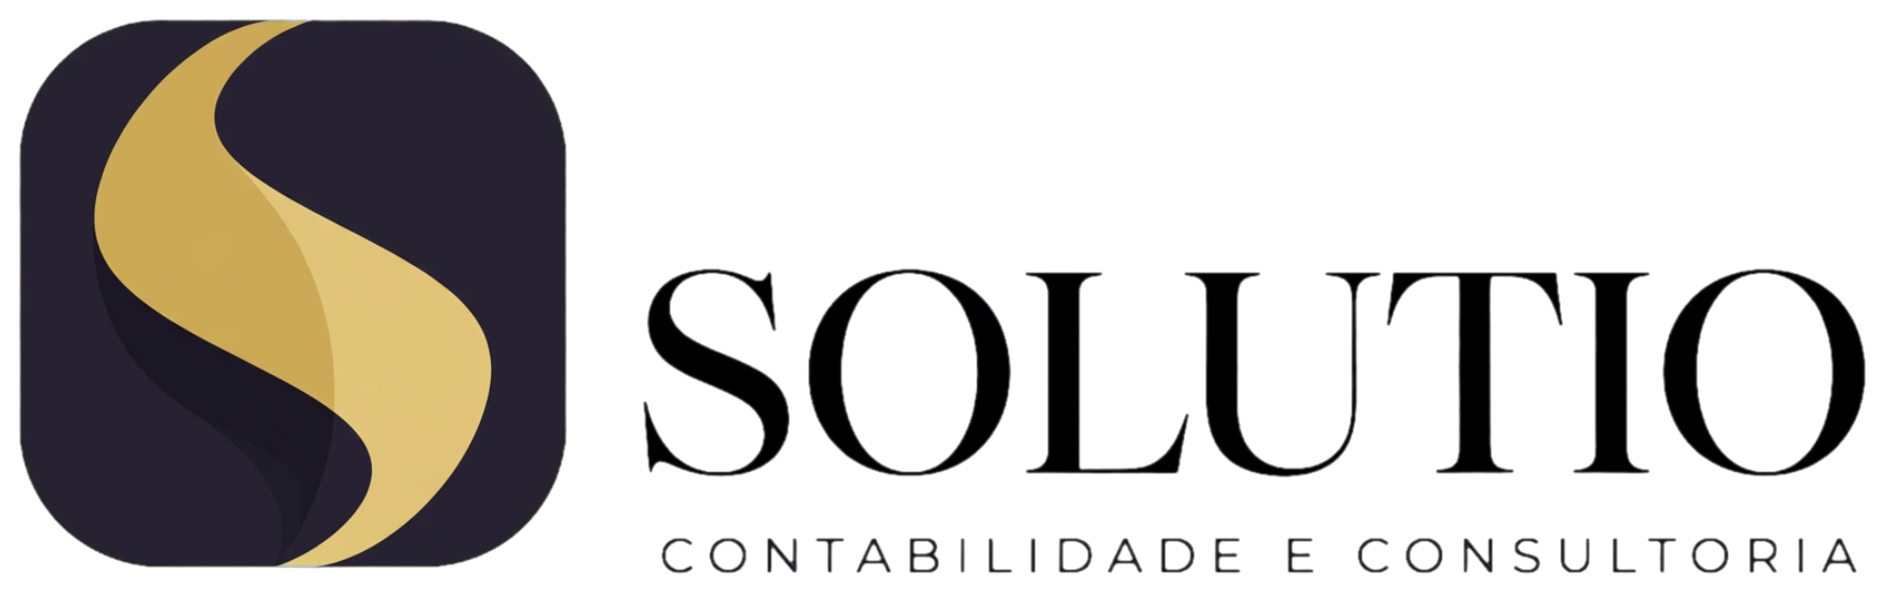
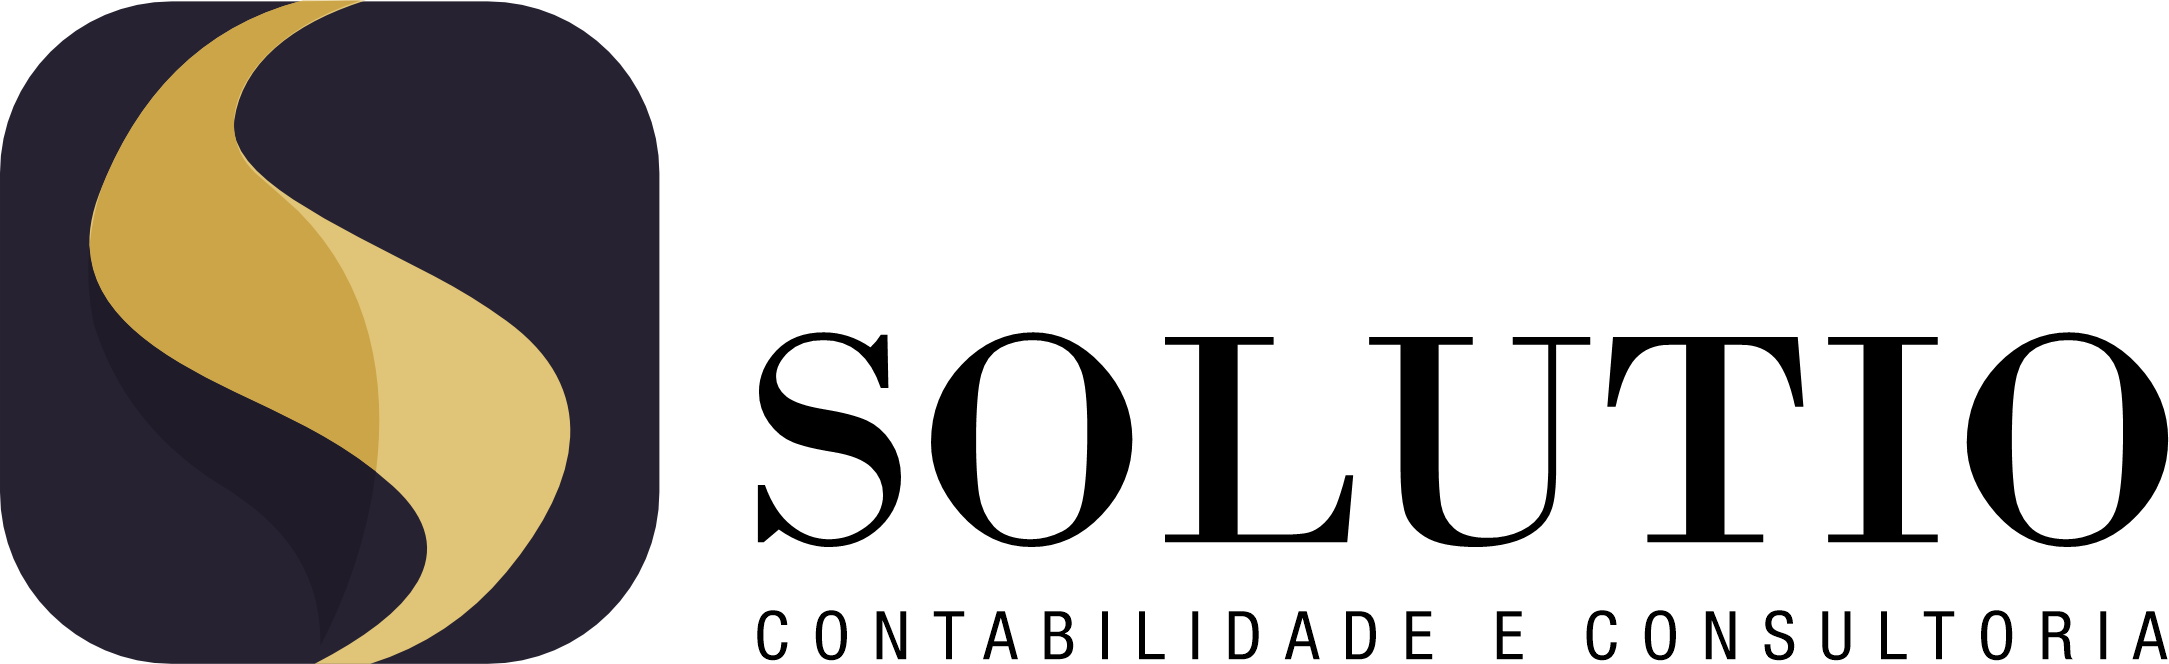
Add files via upload

diff --git a/index.html b/index.html
@@ -17,11 +17,7 @@
 <header class="site-header" id="siteHeader">
   <div class="header-inner">
     <a href="#inicio" class="brand">
-      <img src="solutio-icon-512.png" alt="Solutio" class="brand-mark">
-      <span class="brand-word">
-        <strong>SOLUTIO</strong>
-        <small>CONTABILIDADE E CONSULTORIA</small>
-      </span>
+      <img src="solutio-horizontal.png" alt="Solutio Contabilidade e Consultoria" class="brand-logo">
     </a>
 
     <nav class="main-nav" id="mainNav">
@@ -466,11 +462,7 @@
   <div class="container footer-grid">
     <div class="footer-brand">
       <a href="#inicio" class="brand">
-        <img src="solutio-icon-512.png" alt="Solutio" class="brand-mark">
-        <span class="brand-word">
-          <strong style="color:#fff;">SOLUTIO</strong>
-          <small style="color:rgba(255,255,255,.55);">CONTABILIDADE E CONSULTORIA</small>
-        </span>
+        <img src="solutio-horizontal-white.png" alt="Solutio Contabilidade e Consultoria" class="brand-logo">
       </a>
       <p data-cms="footer_tagline">Assessoria contábil em Brasília. Qualidade, prazo, sigilo e eficácia no atendimento aos nossos clientes.</p>
       <div class="social-row">

diff --git a/styles.css b/styles.css
@@ -117,6 +117,8 @@ section{ position: relative; }
 .brand-word{ display:flex; flex-direction:column; line-height:1.1; }
 .brand-word strong{ font-family:'Plus Jakarta Sans',sans-serif; font-size:17px; letter-spacing:.03em; color:var(--navy); }
 .brand-word small{ font-size:9px; letter-spacing:.12em; color: var(--muted); font-weight:600; }
+.brand-logo{ height:44px; width:auto; display:block; }
+@media (max-width: 480px){ .brand-logo{ height:36px; } }
 
 .main-nav{ display:flex; align-items:center; gap:30px; flex:1; justify-content:center; }
 .main-nav a{ font-size:14.5px; font-weight:600; color:var(--navy); opacity:.75; position:relative; padding: 4px 0; }
